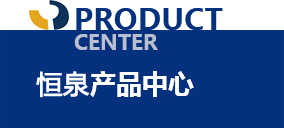
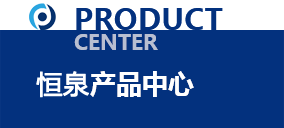
换logo

Changed region(s): [[0.0845, 0.0, 0.2535, 0.25]]

diff --git a/templets/junding/css/public.css b/templets/junding/css/public.css
@@ -44,7 +44,7 @@ a:focus {outline-style:none; -moz-outline-style: none;}
 .qgtlogo_r{width: 282px;height: 45px;overflow: hidden;margin-top: 34px;}
 .qgtlogo_r img{display: block;width: 100%;height: 100%;}
 /*******************导航******************************/
-.nav {width: 100%;height: 50px;background-color: #56bdf5;}
+.nav {width: 100%;height: 50px;background-color: #07326e;}
 .nav_con {width: 1200px;height: 50px;margin: 0 auto;position: relative;z-index: 999;}
 .nav_con ul li {width: 150px;height: 50px;float: left;}
 .nav_con ul li a {width: 150px;height: 50px;display: block;line-height: 50px;text-align: center;font-size: 16px;color: #fff;}
